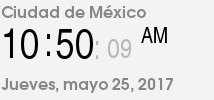
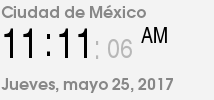
update images 25-05-2017 11:11

Changed region(s): [[0.2523, 0.27, 0.4486, 0.6], [0.0841, 0.27, 0.1963, 0.6], [0.5607, 0.39, 0.6168, 0.57]]

diff --git a/README.md b/README.md
@@ -2515,3 +2515,5 @@
 |25-05-2017 10:20
 |25-05-2017 10:40
 |25-05-2017 10:50
+|25-05-2017 11:03
+|25-05-2017 11:11
